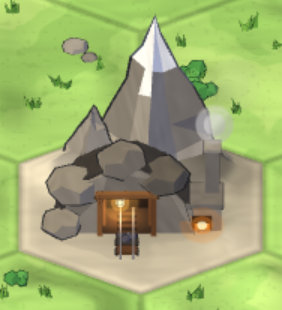
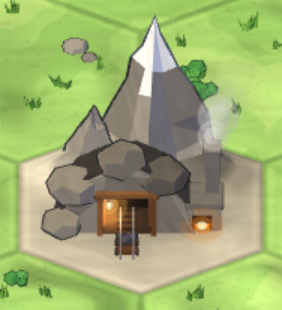
Docs: buildings3d, the mine lantern on the wall (report, mine and foundry shots)

Changed region(s): [[0.3404, 0.6387, 0.5106, 0.7548], [0.6809, 0.2903, 0.8511, 0.4645]]

diff --git a/docs/superpowers/plans/2026-11-25-buildings3d-report.md b/docs/superpowers/plans/2026-11-25-buildings3d-report.md
@@ -111,10 +111,13 @@ inside of the tunnel. And the light should flicker a bit in the tunnel, illumina
 
 ### The mine's lantern inside the tunnel, lighting it (`townLayout.ts` `LANTERN`, `town.ts` `worksPieces`, `lanterns.ts`, `shaders.ts`)
 
-- The lantern now hangs deep in the tunnel, 5.6 units in (the tunnel is 9 deep), on a chain from the far frame's
-  lintel, low enough that the camera sees it under the mouth's lintel (tested with the camera's elevation). Before,
-  it hung on the first inner post, 3 units in, by the entrance.
-- The light lights the tunnel's inside: its lining, floor, back wall, both inner frames, the lantern and the rails
+- The lantern is fixed to the tunnel's left wall, deep inside (4.8 units into the 9 unit tunnel, between the two
+  inner frames): an iron plate on the rock, an arm out 1.4 units with a scroll under it, and the lantern hanging from
+  the arm's end. David's second note: "The mine lantern should be in the wall." (A first follow-up had it hanging on
+  a chain from the far lintel; before that it hung on the first inner post by the entrance.) Tests check it is
+  inside, on the wall, clear of the rock, and that the camera sees its glass under the mouth's lintel and past the
+  inner frame's post.
+- The light lights the tunnel's inside, centred on the lantern by the wall, so that wall glows most: its lining, floor, back wall, both inner frames, the lantern and the rails
   get a warm light that falls off from the lantern (to 9.5 units, in two soft steps, stronger on faces turned to it)
   and breathes with the existing `lanternFlicker` value of the lantern's voice. The timber frames recede into the
   glow.
@@ -214,8 +217,8 @@ Bundle (`GITHUB_PAGES_BASE=/warbanners/ npx vite build`, gzip -9, the branch's s
   - `chests.test.ts`: the smoke is one mesh on the motion clock and holds still at level 0; the lantern's lit tunnel
     and its depth-only front are built with a units canvas and not without one; the three sets of the mine add up to
     the whole and everything lit lies inside the tunnel.
-  - `townLayout.test.ts`: the lantern hangs deep inside the tunnel, between its walls, and the camera sees its glass
-    under the mouth's lintel.
+  - `townLayout.test.ts`: the lantern is fixed to the tunnel's wall deep inside, a bracket's reach from the rock, and
+    the camera sees its glass under the mouth's lintel and past the inner frame's post.
 
 Results (2026-11-25, this branch):
 
@@ -230,6 +233,8 @@ Results (2026-11-25, this branch):
   on a second run (52 passed, 2 skipped), so it reads as a timing flake under load; see Concerns.
 - After the follow-ups: tsc and lint clean, the sub-path build ok, `npm run test:browser`: AI suite 6 passed, the
   rest 52 passed and 2 skipped (no flake this time).
+- After the lantern moved to the wall: tsc and lint clean; vitest 1345 passed, 126 skipped; the sub-path build ok;
+  `npm run test:browser`: AI suite 6 passed, the rest 52 passed and 2 skipped.
 - `npm run test:emu`: not run; nothing in `src/net`, `src/online` or `database.rules.json` changed.
 
 ## Shots (`shots/buildings3d/`)
@@ -249,15 +254,15 @@ Taken by `scripts/buildings3d-shots.ts` on the built app with software WebGL (Sw
   find's words show above. `claim-closeup.gif` is the chest alone from the tap on, and `claim-closeup-frames.png` its
   frames at 160, 240, 320, 480, 600, 760 and 920 ms. Stills: `claim-<ms>ms.png`, `claim-closeup-<ms>ms.png`.
 - The wheel's turn is not filmed (it is a slow turn; the tests check it).
-- The sheets, boards and chest shots above were taken before the follow-ups: their mines still have the lantern by
-  the entrance and the foundry its still smoke balls, and the camp and mill have no smoke.
+- The sheets, boards and chest shots above were taken before the follow-ups: their mines still have the lantern on
+  the entrance post and the foundry its still smoke balls, and the camp and mill have no smoke.
 - Follow-ups (the real app, motion on, the page's clock held and stepped 50 ms a frame, so each GIF is at real pace,
   20 fps, 3 s):
   - `camp-life.gif`, `camp-life-<ms>ms.png`: the lumber camp's stovepipe wisp drifting right.
   - `mill-life.gif`, `mill-life-<ms>ms.png`: the lumber mill's chimney smoke (and its wheel turning).
   - `foundry-life.gif`, `foundry-life-<ms>ms.png`: the foundry's chimney smoke, now drifting, and its lit tunnel.
-  - `mine-life.gif`, `mine-life-<ms>ms.png`: the mine close up, the lantern deep in the tunnel and its flicker
-    lighting the lining, floor and frames.
+  - `mine-life.gif`, `mine-life-<ms>ms.png`: the mine close up, the lantern on the tunnel's wall deep inside and its
+    flicker lighting the wall, lining, floor and frames.
   - `mine-board-3d.png`, `foundry-board-3d.png` (crops) and `-full.png` (the whole screen): the mine and foundry at
     the phone's default zoom, 412 x 915.
 
